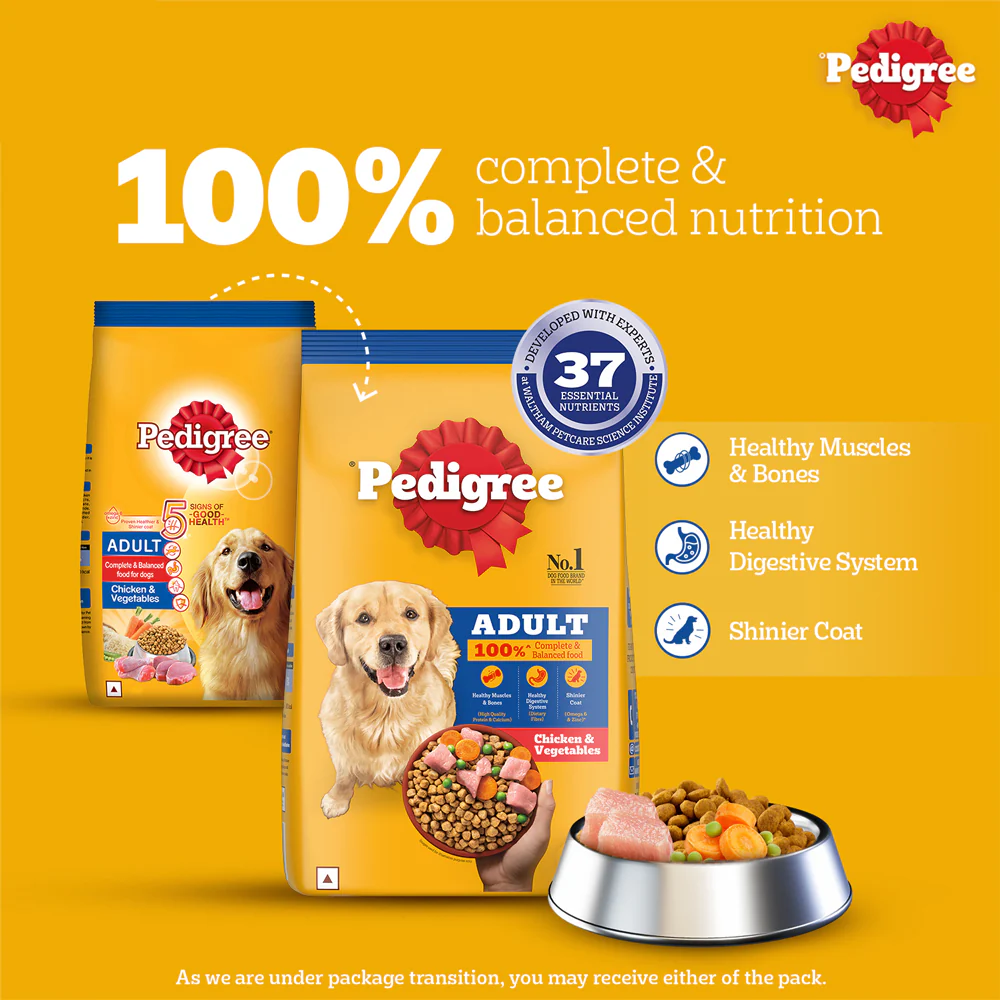
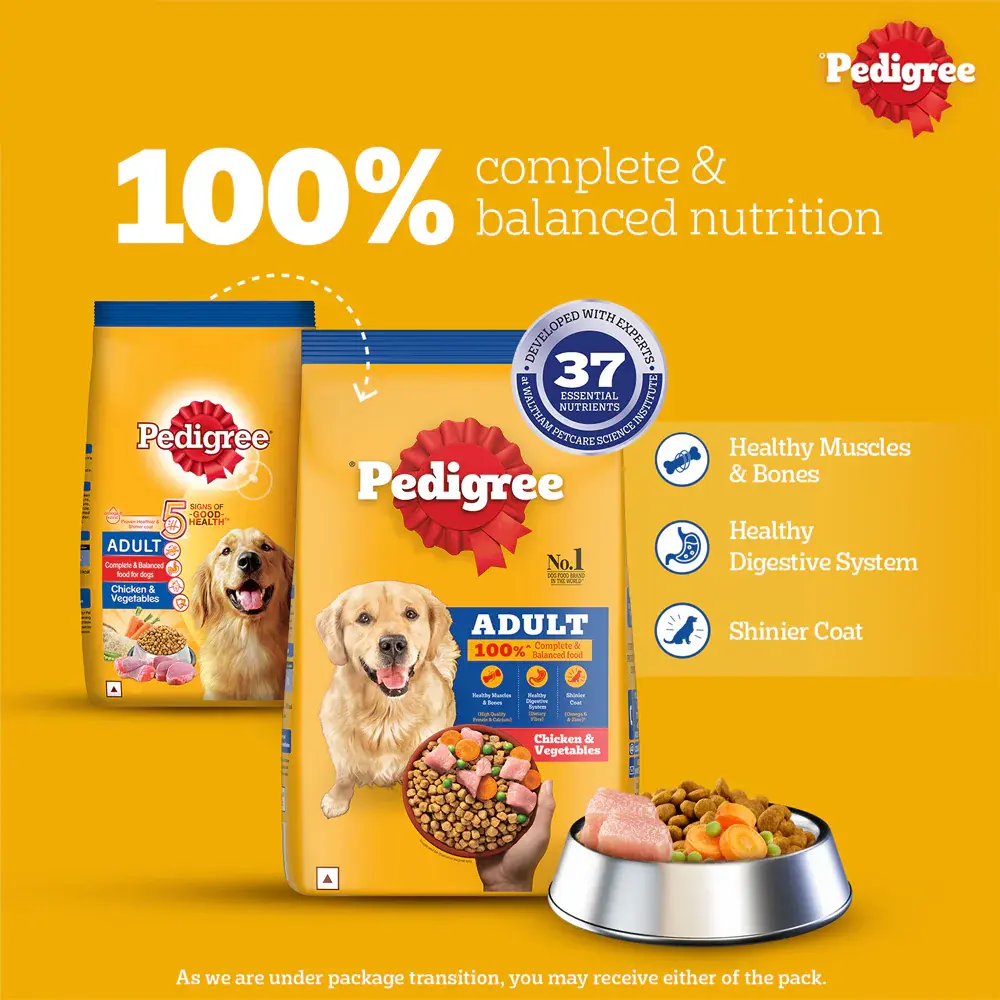
images format changed

diff --git a/index.html b/index.html
@@ -270,35 +270,35 @@
                 <div class="relative h-56 overflow-hidden rounded-lg md:h-96">
                   <!-- Item 1 -->
                   <div class="absolute inset-0 w-full h-full transition-all duration-700 ease-in-out transform translate-x-0" data-carousel-item>
-                    <img src="./img/pexels-chevanon-1108099.jpg" class="absolute block w-full h-full object-cover" alt="Pet Image 1" loading="lazy">
+                    <img src="./img/pexels-chevanon-1108099.webp" class="absolute block w-full h-full object-cover" alt="Pet Image 1" loading="lazy">
                   </div>
                   <!-- Item 2 -->
                   <div class="absolute inset-0 w-full h-full transition-all duration-700 ease-in-out transform translate-x-full" data-carousel-item>
-                    <img src="./img/pexels-denniz-futalan-339724-2306894.jpg" class="absolute block w-full h-full object-cover" alt="Pet Image 2" loading="lazy">
+                    <img src="./img/pexels-denniz-futalan-339724-2306894.webp" class="absolute block w-full h-full object-cover" alt="Pet Image 2" loading="lazy">
                   </div>
                   <!-- Item 3 -->
                   <div class="absolute inset-0 w-full h-full transition-all duration-700 ease-in-out transform translate-x-full" data-carousel-item>
-                    <img src="./img/pexels-couleur-2317904.jpg" class="absolute block w-full h-full object-cover" alt="Pet Image 3" loading="lazy">
+                    <img src="./img/pexels-couleur-2317904.webp" class="absolute block w-full h-full object-cover" alt="Pet Image 3" loading="lazy">
                   </div>
                   <!-- Item 4 -->
                   <div class="absolute inset-0 w-full h-full transition-all duration-700 ease-in-out transform translate-x-full" data-carousel-item>
-                    <img src="./img/pexels-snapwire-46024.jpg" class="absolute block w-full h-full object-cover" alt="Pet Image 4" loading="lazy">
+                    <img src="./img2/pexels-snapwire-46024.webp" class="absolute block w-full h-full object-cover" alt="Pet Image 4" loading="lazy">
                   </div>
                   <!-- Item 5 -->
                   <div class="absolute inset-0 w-full h-full transition-all duration-700 ease-in-out transform translate-x-full" data-carousel-item>
-                    <img src="./img/pexels-wojciech-kumpicki-1084687-2071882.jpg" class="absolute block w-full h-full object-cover" alt="Pet Image 5" loading="lazy">
+                    <img src="./img/pexels-wojciech-kumpicki-1084687-2071882.webp" class="absolute block w-full h-full object-cover" alt="Pet Image 5" loading="lazy">
                   </div>
                   <div class="absolute inset-0 w-full h-full transition-all duration-700 ease-in-out transform translate-x-full" data-carousel-item>
-                    <img src="./img/pexels-ngochuy-17904003.jpg" class="absolute block w-full h-full object-cover" alt="Pet Image 6" loading="lazy">
+                    <img src="./img2/pexels-ngochuy-17904003.webp" class="absolute block w-full h-full object-cover" alt="Pet Image 6" loading="lazy">
                   </div>
                   <div class="absolute inset-0 w-full h-full transition-all duration-700 ease-in-out transform translate-x-full" data-carousel-item>
-                    <img src="./img/pexels-pixabay-372166.jpg" class="absolute block w-full h-full object-cover" alt="Pet Image 7" loading="lazy">
+                    <img src="./img2/pexels-pixabay-372166.webp" class="absolute block w-full h-full object-cover" alt="Pet Image 7" loading="lazy">
                   </div>
                   <div class="absolute inset-0 w-full h-full transition-all duration-700 ease-in-out transform translate-x-full" data-carousel-item>
-                    <img src="./img/pexels-anh-bao-tran-le-1619456008-30550734.jpg" class="absolute block w-full h-full object-cover" alt="Pet Image 8" loading="lazy">
+                    <img src="./img2/pexels-anh-bao-tran-le-1619456008-30550734.webp" class="absolute block w-full h-full object-cover" alt="Pet Image 8" loading="lazy">
                   </div>
                   <div class="absolute inset-0 w-full h-full transition-all duration-700 ease-in-out transform translate-x-full" data-carousel-item>
-                    <img src="./img/pexels-mikhail-nilov-7722519.jpg" class="absolute block w-full h-full object-cover" alt="Pet Image 9" loading="lazy">
+                    <img src="./img2/pexels-mikhail-nilov-7722519.webp" class="absolute block w-full h-full object-cover" alt="Pet Image 9" loading="lazy">
                   </div>
                 </div>
     
@@ -409,31 +409,31 @@
           <!-- Product Card Slide 2 -->
           <div class="swiper-slide">
             <div class="bg-indigo-50 rounded-2xl h-96 flex justify-center items-center">
-              <img src="./img/pexels-arina-krasnikova-7725617.jpg" class="w-full h-full object-cover rounded-2xl" alt="Product 2" />
+              <img src="./img/pexels-arina-krasnikova-7725617.webp" class="w-full h-full object-cover rounded-2xl" alt="Product 2" />
             </div>
           </div>
           <!-- Product Card Slide 3 -->
           <div class="swiper-slide">
             <div class="bg-indigo-50 rounded-2xl h-96 flex justify-center items-center">
-              <img src="./img/nicat-almemmedov-_ZScq1gD66s-unsplash.jpg" class="w-full h-full object-cover rounded-2xl" alt="Product 3" />
+              <img src="./img/nicat-almemmedov-_ZScq1gD66s-unsplash.webp" class="w-full h-full object-cover rounded-2xl" alt="Product 3" />
             </div>
           </div>
           <!-- Product Card Slide 4 -->
           <div class="swiper-slide">
             <div class="bg-indigo-50 rounded-2xl h-96 flex justify-center items-center">
-              <img src="./img/sam-moghadam-SRzVKw8l_tA-unsplash.jpg" class="w-full h-full object-cover rounded-2xl" alt="Product 4" />
+              <img src="./img/sam-moghadam-SRzVKw8l_tA-unsplash.webp" class="w-full h-full object-cover rounded-2xl" alt="Product 4" />
             </div>
           </div>
           <!-- Product Card Slide 5 -->
           <div class="swiper-slide">
             <div class="bg-indigo-50 rounded-2xl h-96 flex justify-center items-center">
-              <img src="./img/pexels-mathew-coulton-2358287-4445456.jpg" class="w-full h-full object-cover rounded-2xl" alt="Product 5" />
+              <img src="./img/pexels-mathew-coulton-2358287-4445456.webp" class="w-full h-full object-cover rounded-2xl" alt="Product 5" />
             </div>
           </div>
           <!-- Product Card Slide 6 -->
           <div class="swiper-slide">
             <div class="bg-indigo-50 rounded-2xl h-96 flex justify-center items-center">
-              <img src="./img/willian-justen-de-vasconcellos-1hBWrLIDSCc-unsplash.jpg" class="w-full h-full object-cover rounded-2xl" alt="Product 6" />
+              <img src="./img/willian-justen-de-vasconcellos-1hBWrLIDSCc-unsplash.webp" class="w-full h-full object-cover rounded-2xl" alt="Product 6" />
             </div>
           </div>
         </div>
@@ -508,7 +508,7 @@
           </a>
         </div>
       </div>
-      <img src="./img/veterinarian-check-ing-puppy-s-health.jpg" alt="Product screenshot" class="w-[48rem] max-w-none rounded-xl ring-1 shadow-xl ring-gray-400/10 sm:w-[57rem] md:-ml-4 lg:-ml-0 lg:mb-8" width="2432" height="1442">
+      <img src="./img2/veterinarian-check-ing-puppy-s-health.webp" alt="Product screenshot" class="w-[48rem] max-w-none rounded-xl ring-1 shadow-xl ring-gray-400/10 sm:w-[57rem] md:-ml-4 lg:-ml-0 lg:mb-8" width="2432" height="1442">
     </div>
   </div>
 </div>
@@ -529,8 +529,7 @@
                      data-carousel-item
                      style="backface-visibility: hidden; transform-style: preserve-3d;">
                   <picture>
-                    <source srcset="img/grooming/pexels-slz-2144466065-29452052.webp" type="image/webp">
-                    <img src="img/grooming/pexels-slz-2144466065-29452052.jpg" 
+                    <img src="img/grooming/pexels-slz-2144466065-29452052.webp" 
                          class="absolute block w-full h-full object-cover" 
                          alt="In-Home Grooming" 
                          loading="lazy"
@@ -542,8 +541,7 @@
                      data-carousel-item
                      style="backface-visibility: hidden; transform-style: preserve-3d;">
                   <picture>
-                    <source srcset="img/grooming/pexels-goochie-poochie-19145878.webp" type="image/webp">
-                    <img src="img/grooming/pexels-goochie-poochie-19145878.jpg" 
+                    <img src="img/grooming/pexels-goochie-poochie-19145878.webp" 
                          class="absolute block w-full h-full object-cover" 
                          alt="In-Home Grooming" 
                          loading="lazy"
@@ -555,8 +553,7 @@
                      data-carousel-item
                      style="backface-visibility: hidden; transform-style: preserve-3d;">
                   <picture>
-                    <source srcset="img/grooming/pexels-goochie-poochie-19145885.webp" type="image/webp">
-                    <img src="img/grooming/pexels-goochie-poochie-19145885.jpg" 
+                    <img src="img/grooming/pexels-goochie-poochie-19145885.webp" 
                          class="absolute block w-full h-full object-cover" 
                          alt="In-Home Grooming" 
                          loading="lazy"
@@ -568,8 +565,7 @@
                      data-carousel-item
                      style="backface-visibility: hidden; transform-style: preserve-3d;">
                   <picture>
-                    <source srcset="img/grooming/pexels-gustavo-fring-6816853.webp" type="image/webp">
-                    <img src="img/grooming/pexels-gustavo-fring-6816853.jpg" 
+                    <img src="img/grooming/pexels-gustavo-fring-6816853.webp" 
                          class="absolute block w-full h-full object-cover" 
                          alt="In-Home Grooming" 
                          loading="lazy"
@@ -581,8 +577,7 @@
                      data-carousel-item
                      style="backface-visibility: hidden; transform-style: preserve-3d;">
                   <picture>
-                    <source srcset="img/grooming/pexels-gustavo-fring-6816860.webp" type="image/webp">
-                    <img src="img/grooming/pexels-gustavo-fring-6816860.jpg" 
+                    <img src="img/grooming/pexels-gustavo-fring-6816860.webp" 
                          class="absolute block w-full h-full object-cover" 
                          alt="In-Home Grooming" 
                          loading="lazy"
@@ -594,8 +589,7 @@
                      data-carousel-item
                      style="backface-visibility: hidden; transform-style: preserve-3d;">
                   <picture>
-                    <source srcset="img/grooming/pexels-gustavo-fring-6816864.webp" type="image/webp">
-                    <img src="img/grooming/pexels-gustavo-fring-6816864.jpg" 
+                    <img src="img/grooming/pexels-gustavo-fring-6816864.webp" 
                          class="absolute block w-full h-full object-cover" 
                          alt="In-Home Grooming" 
                          loading="lazy"
@@ -607,8 +601,7 @@
                      data-carousel-item
                      style="backface-visibility: hidden; transform-style: preserve-3d;">
                   <picture>
-                    <source srcset="img/grooming/pexels-slz-2144466065-29452052.webp" type="image/webp">
-                    <img src="img/grooming/pexels-slz-2144466065-29452052.jpg" 
+                    <img src="img/grooming/pexels-slz-2144466065-29452052.webp" 
                          class="absolute block w-full h-full object-cover" 
                          alt="In-Home Grooming" 
                          loading="lazy"
